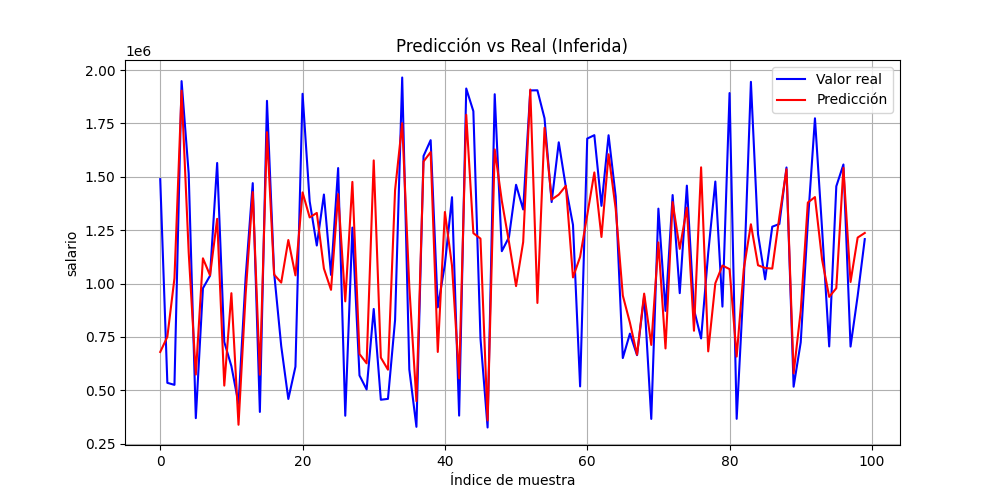
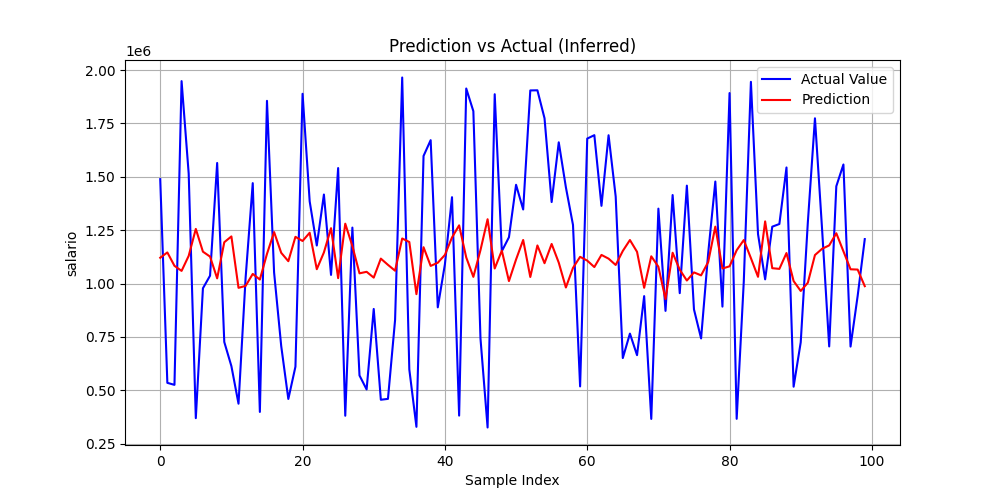
se suben cambios

diff --git a/templates/uploads/upload.html b/templates/uploads/upload.html
@@ -15,22 +15,33 @@
         {{ mensaje }}
       </div>
     {% endif %}
+    
+    {% if form.archivo.errors %}
+      <div class="alert alert-danger">
+        Please correct the errors below:
+        {{ form.archivo.errors }}
+      </div>
+    {% endif %}
+    {% if form.non_field_errors %}
+      <div class="alert alert-danger">
+        {{ form.non_field_errors }}
+      </div>
+    {% endif %}
 
-    <form method="post" enctype="multipart/form-data">
+    <form method="post" enctype="multipart/form-data" id="uploadForm">
       {% csrf_token %}
       <div class="form-group">
         {{ form.archivo.label_tag }}
-        {{ form.archivo }}
-        {% if form.archivo.errors %}
-          <div class="text-danger">
-            {{ form.archivo.errors }}
-          </div>
-        {% endif %}
+        <div class="custom-file">
+          {{ form.archivo }}
+          <label class="custom-file-label" for="{{ form.archivo.id_for_label }}">Choose a CSV File</label>
+        </div>
+        <small id="fileHelp" class="form-text text-muted">Only .csv files are accepted.</small>
       </div>
       <button type="submit" class="btn btn-primary">Upload and Process</button>
     </form>
     <div id="procesando-msg" class="alert alert-info mt-3" style="display:none;">
-      Processing, apliying AI unsing Tensor Flow...
+      Processing, aplying AI unsing Tensor Flow...
     </div>
     <div id="archivo-msg" class="alert alert-secondary mt-2" style="display:none;">
       Processing File: <span id="archivo-nombre"></span>
@@ -40,15 +51,64 @@
     </footer>
   </div>
   <script>
-    document.querySelector('form').addEventListener('submit', function() {
-      document.getElementById('procesando-msg').style.display = 'block';
-      // Mostrar nombre del archivo
-      var input = document.querySelector('input[type="file"]');
-      if (input.files.length > 0) {
-        document.getElementById('archivo-nombre').textContent = input.files[0].name;
-        document.getElementById('archivo-msg').style.display = 'block';
-      }
-    });
+  var fileInput = document.getElementById("{{ form.archivo.id_for_label }}");
+  var uploadForm = document.getElementById("uploadForm");
+  var submitButton = uploadForm.querySelector('button[type="submit"]');
+
+  if (fileInput) {
+      fileInput.addEventListener('change', function(e) {
+          var fileName = "";
+          var isValid = false;
+          if (e.target.files.length > 0) {
+              fileName = e.target.files[0].name;
+              if (fileName.endsWith('.csv')) {
+                  isValid = true;
+              } else {
+                  fileName = "Invalid file type. Please select a .csv file.";
+                  e.target.value = ""; // Limpiar el input si el archivo no es CSV
+              }
+          } else {
+              fileName = "Choose a CSV File";
+              isValid = true; // Permitir que el label se resetee
+          }
+          
+          var label = document.querySelector('label.custom-file-label[for="' + e.target.id + '"]');
+          if (label) {
+              label.textContent = fileName;
+              if (!isValid && e.target.files.length > 0) { // Solo si se intentó seleccionar un archivo inválido
+                label.classList.add('text-danger');
+              } else {
+                label.classList.remove('text-danger');
+              }
+          }
+          // Habilitar/deshabilitar botón de envío basado en la validez del archivo
+          // submitButton.disabled = !isValid && e.target.files.length > 0;
+      });
+  }
+
+  uploadForm.addEventListener('submit', function(event) {
+    if (fileInput.files.length > 0) {
+        var selectedFileName = fileInput.files[0].name;
+        if (!selectedFileName.endsWith('.csv')) {
+            alert("Invalid file type. Only .csv files are accepted.");
+            event.preventDefault(); // Detener el envío del formulario
+            // Resetear el label y el input
+            var label = document.querySelector('label.custom-file-label[for="' + fileInput.id + '"]');
+            if (label) {
+                label.textContent = "Choose a CSV File";
+                label.classList.add('text-danger');
+            }
+            fileInput.value = "";
+            return false;
+        }
+    }
+    // Si pasa la validación o no hay archivo, mostrar mensajes de procesamiento
+    document.getElementById('procesando-msg').style.display = 'block';
+    if (fileInput.files.length > 0) {
+      document.getElementById('archivo-nombre').textContent = fileInput.files[0].name;
+      document.getElementById('archivo-msg').style.display = 'block';
+    }
+  });
   </script>
 </body>
 </html>

diff --git a/templates/uploads/success.html b/templates/uploads/success.html
@@ -1,16 +1,16 @@
 <!-- templates/sRegression/upload_success.html -->
 <!DOCTYPE html>
-<html lang="es">
+<html lang="en">
 <head>
   <meta charset="UTF-8">
-  <title>¡Éxito!</title>
+  <title>Success!</title>
   <link rel="stylesheet"
         href="https://stackpath.bootstrapcdn.com/bootstrap/4.5.2/css/bootstrap.min.css">
 </head>
 <body class="bg-light">
   <div class="container mt-5">
     <div class="alert alert-success">
-      <h4 class="alert-heading">¡File updload successfully!</h4>
+      <h4 class="alert-heading">File uploaded successfully!</h4>
       <p>Your file has been processed.</p>
       <hr>
       
@@ -18,7 +18,7 @@
       <h5>List of files in media (example):</h5>
       <ul>
         {% for item in archivos %}
-          <li>{{ item.nombre }}</li>
+          <li>{{ item.nombre }}</li> {# Assuming item.nombre is dynamic and might be in any language #}
         {% endfor %}
       </ul>
       <hr>
@@ -26,20 +26,20 @@
 
       {% if informe_texto %}
       <div class="mb-4">
-        <h5>Informe del Modelo y Datos (contenido de /media/informe.txt):</h5>
+        <h5>Model and Data Report (in /media/informe.txt):</h5>
         <pre style="white-space: pre-wrap; word-wrap: break-word; background-color: #f8f9fa; border: 1px solid #dee2e6; padding: 15px; border-radius: .25rem; max-height: 400px; overflow-y: auto;">{{ informe_texto }}</pre>
       </div>
       <hr>
       {% endif %}
 
       <div class="mb-4">
-        <h5>Gráfica de Predicción vs Real:</h5>
-        <img src="/media/grafico.png" alt="Gráfico de predicción" class="img-fluid mb-3" style="max-width: 700px;">
-        <h5>Curva de Pérdida:</h5>
-        <img src="/media/resultado.png" alt="Curva de pérdida" class="img-fluid" style="max-width: 700px;">
+        <h5>Prediction vs Actual Graph:</h5>
+        <img src="/media/grafico.png" alt="Prediction graph" class="img-fluid mb-3" style="max-width: 700px;">
+        <h5>Loss Curve:</h5>
+        <img src="/media/resultado.png" alt="Loss curve" class="img-fluid" style="max-width: 700px;">
       </div>
       <a href="{% url 'uploads:upload' %}" class="btn btn-secondary">
-        Regression to another file?
+        Perform regression to another file ?
       </a>
     </div>
   </div>

diff --git a/CSVRegressor.py b/CSVRegressor.py
@@ -20,14 +20,14 @@ class CSVRegressorAuto:
         # Filtramos solo columnas numéricas
         numeric_data = data.select_dtypes(include=[np.number])
         if numeric_data.shape[1] < 2:
-            raise ValueError("El CSV debe contener al menos dos columnas numéricas para hacer regresión.")
+            raise ValueError("The CSV must contain at least two numeric columns for regression.")
 
         # Por defecto: última columna numérica como Y, el resto como X
         self.y_column = numeric_data.columns[-1]
         self.x_columns = numeric_data.columns[:-1]
 
-        print(f"Usando '{self.y_column}' como variable objetivo (y)")
-        print(f"Usando {list(self.x_columns)} como variables independientes (X)")
+        print(f"Using '{self.y_column}' as target variable (y)")
+        print(f"Using {list(self.x_columns)} as independent variables (X)")
 
         self.X = numeric_data[self.x_columns].values
         self.y = numeric_data[[self.y_column]].values
@@ -64,11 +64,11 @@ class CSVRegressorAuto:
         y_true_inverse = self.scaler_y.inverse_transform(self.y).flatten()
 
         plt.figure(figsize=(10, 5))
-        plt.plot(y_true_inverse, label="Valor real", color='blue')
-        plt.plot(y_pred_inverse, label="Predicción", color='red')
-        plt.xlabel("Índice de muestra")
+        plt.plot(y_true_inverse, label="Actual Value", color='blue')
+        plt.plot(y_pred_inverse, label="Prediction", color='red')
+        plt.xlabel("Sample Index")
         plt.ylabel(self.y_column)
-        plt.title("Predicción vs Real (Inferida)")
+        plt.title("Prediction vs Actual (Inferred)")
         plt.legend()
         plt.grid(True)
         # Guardar en media/grafico.png
@@ -78,11 +78,11 @@ class CSVRegressorAuto:
 
     def plot_loss(self):
         plt.figure(figsize=(10, 4))
-        plt.plot(self.history.history['loss'], label='Pérdida de entrenamiento')
-        plt.plot(self.history.history['val_loss'], label='Pérdida de validación')
-        plt.title('Curva de pérdida')
-        plt.xlabel('Épocas')
-        plt.ylabel('Pérdida (MSE)')
+        plt.plot(self.history.history['loss'], label='Training Loss')
+        plt.plot(self.history.history['val_loss'], label='Validation Loss')
+        plt.title('Loss Curve')
+        plt.xlabel('Epochs')
+        plt.ylabel('Loss (MSE)')
         plt.legend()
         plt.grid(True)
         # Guardar en media/resultado.png
@@ -122,22 +122,22 @@ class CSVRegressorAuto:
             
             # Guardar 
             with open(informe_path_final, "w", encoding='utf-8') as f:
-                f.write("🔍 INFORME DE REGRESIÓN CON IA\n")
+                f.write("🔍 Regression Report with AI\n")
                 f.write("="*40 + "\n")
-                f.write(f"Archivo CSV: {self.csv_path}\n\n")
-                f.write(f"Variable objetivo (Y): {self.y_column}\n")
-                f.write(f"Variables independientes (X): {list(self.x_columns)}\n\n")
-                f.write(f"👉 Ecuación aproximada aprendida (última capa):\n")
+                f.write(f"CSV File: {self.csv_path}\n\n")
+                f.write(f"Target Variable (Y): {self.y_column}\n")
+                f.write(f"Independent Variables (X): {list(self.x_columns)}\n\n")
+                f.write(f"👉 Approximate learned equation (last layer):\n")
                 f.write(eq_str + "\n\n")
-                f.write(f"📊 Métricas en conjunto de prueba:\n")
-                f.write(f" - MSE (Error cuadrático medio): {mse:.4f}\n")
-                f.write(f" - MAE (Error absoluto medio): {mae:.4f}\n")
+                f.write(f"📊 Metrics on test set:\n")
+                f.write(f" - MSE (Mean Squared Error): {mse:.4f}\n")
+                f.write(f" - MAE (Mean Absolute Error): {mae:.4f}\n")
             
-            print(f"✅ Informe guardado en: {os.path.abspath(informe_path_final)}")
+            print(f"✅ Report saved in: {os.path.abspath(informe_path_final)}")
 
         except Exception as e:
-            print(f"❌ Error al generar o guardar el informe: {e}")
-            print(f"   Se intentaba guardar en: {os.path.abspath(informe_path_final)}")
+            print(f"❌ Error generating and saving report: {e}")
+            print(f"   Attempted to save in: {os.path.abspath(informe_path_final)}")
             # Puedes decidir si relanzar la excepción o no, dependiendo de cómo quieras manejar errores.
             # raise e 
         

diff --git a/uploads/forms.py b/uploads/forms.py
@@ -8,5 +8,10 @@ class UploadFileForm(forms.ModelForm):
         model = UploadedFile
         fields = ['archivo']
         widgets = {
-            'archivo': forms.ClearableFileInput(attrs={'class': 'form-control-file'})
+            'archivo': forms.FileInput(attrs={
+                'class': 'custom-file-input',
+                'accept': '.csv'  # Añade esto
+            }),
         }
+    # Si no usas ModelForm, sería algo como:
+    # archivo = forms.FileField(widget=forms.FileInput(attrs={'class': 'custom-file-input', 'accept': '.csv'}))
